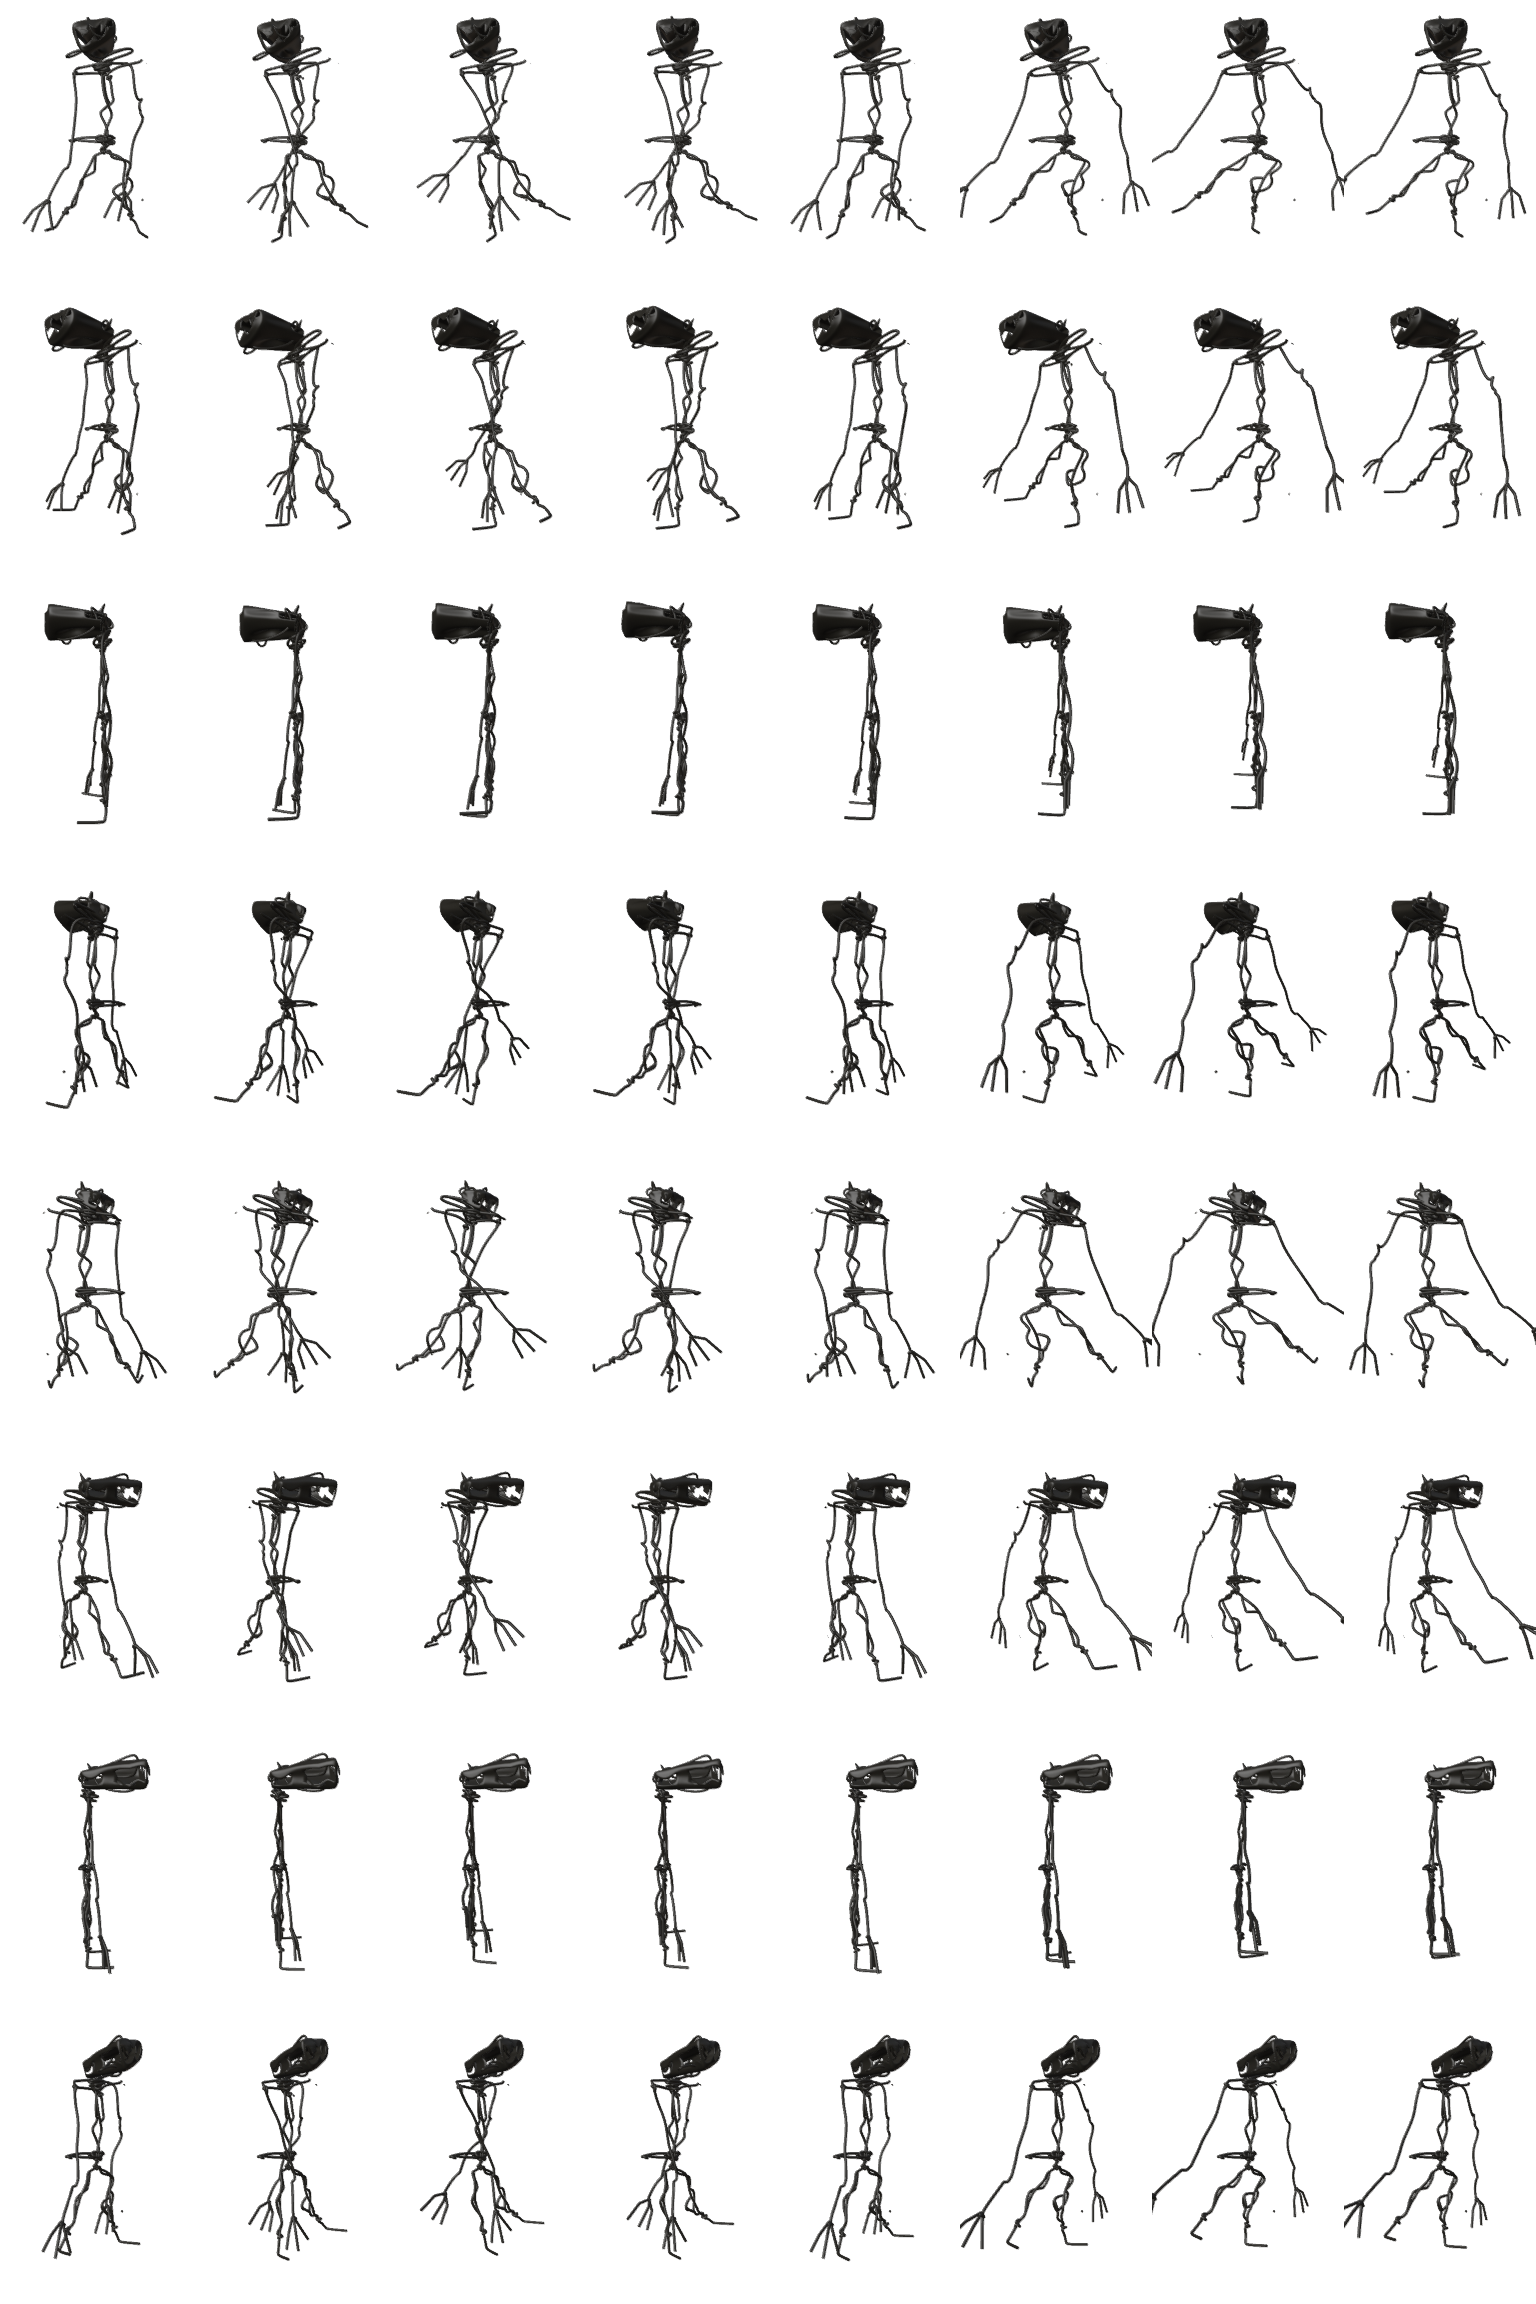
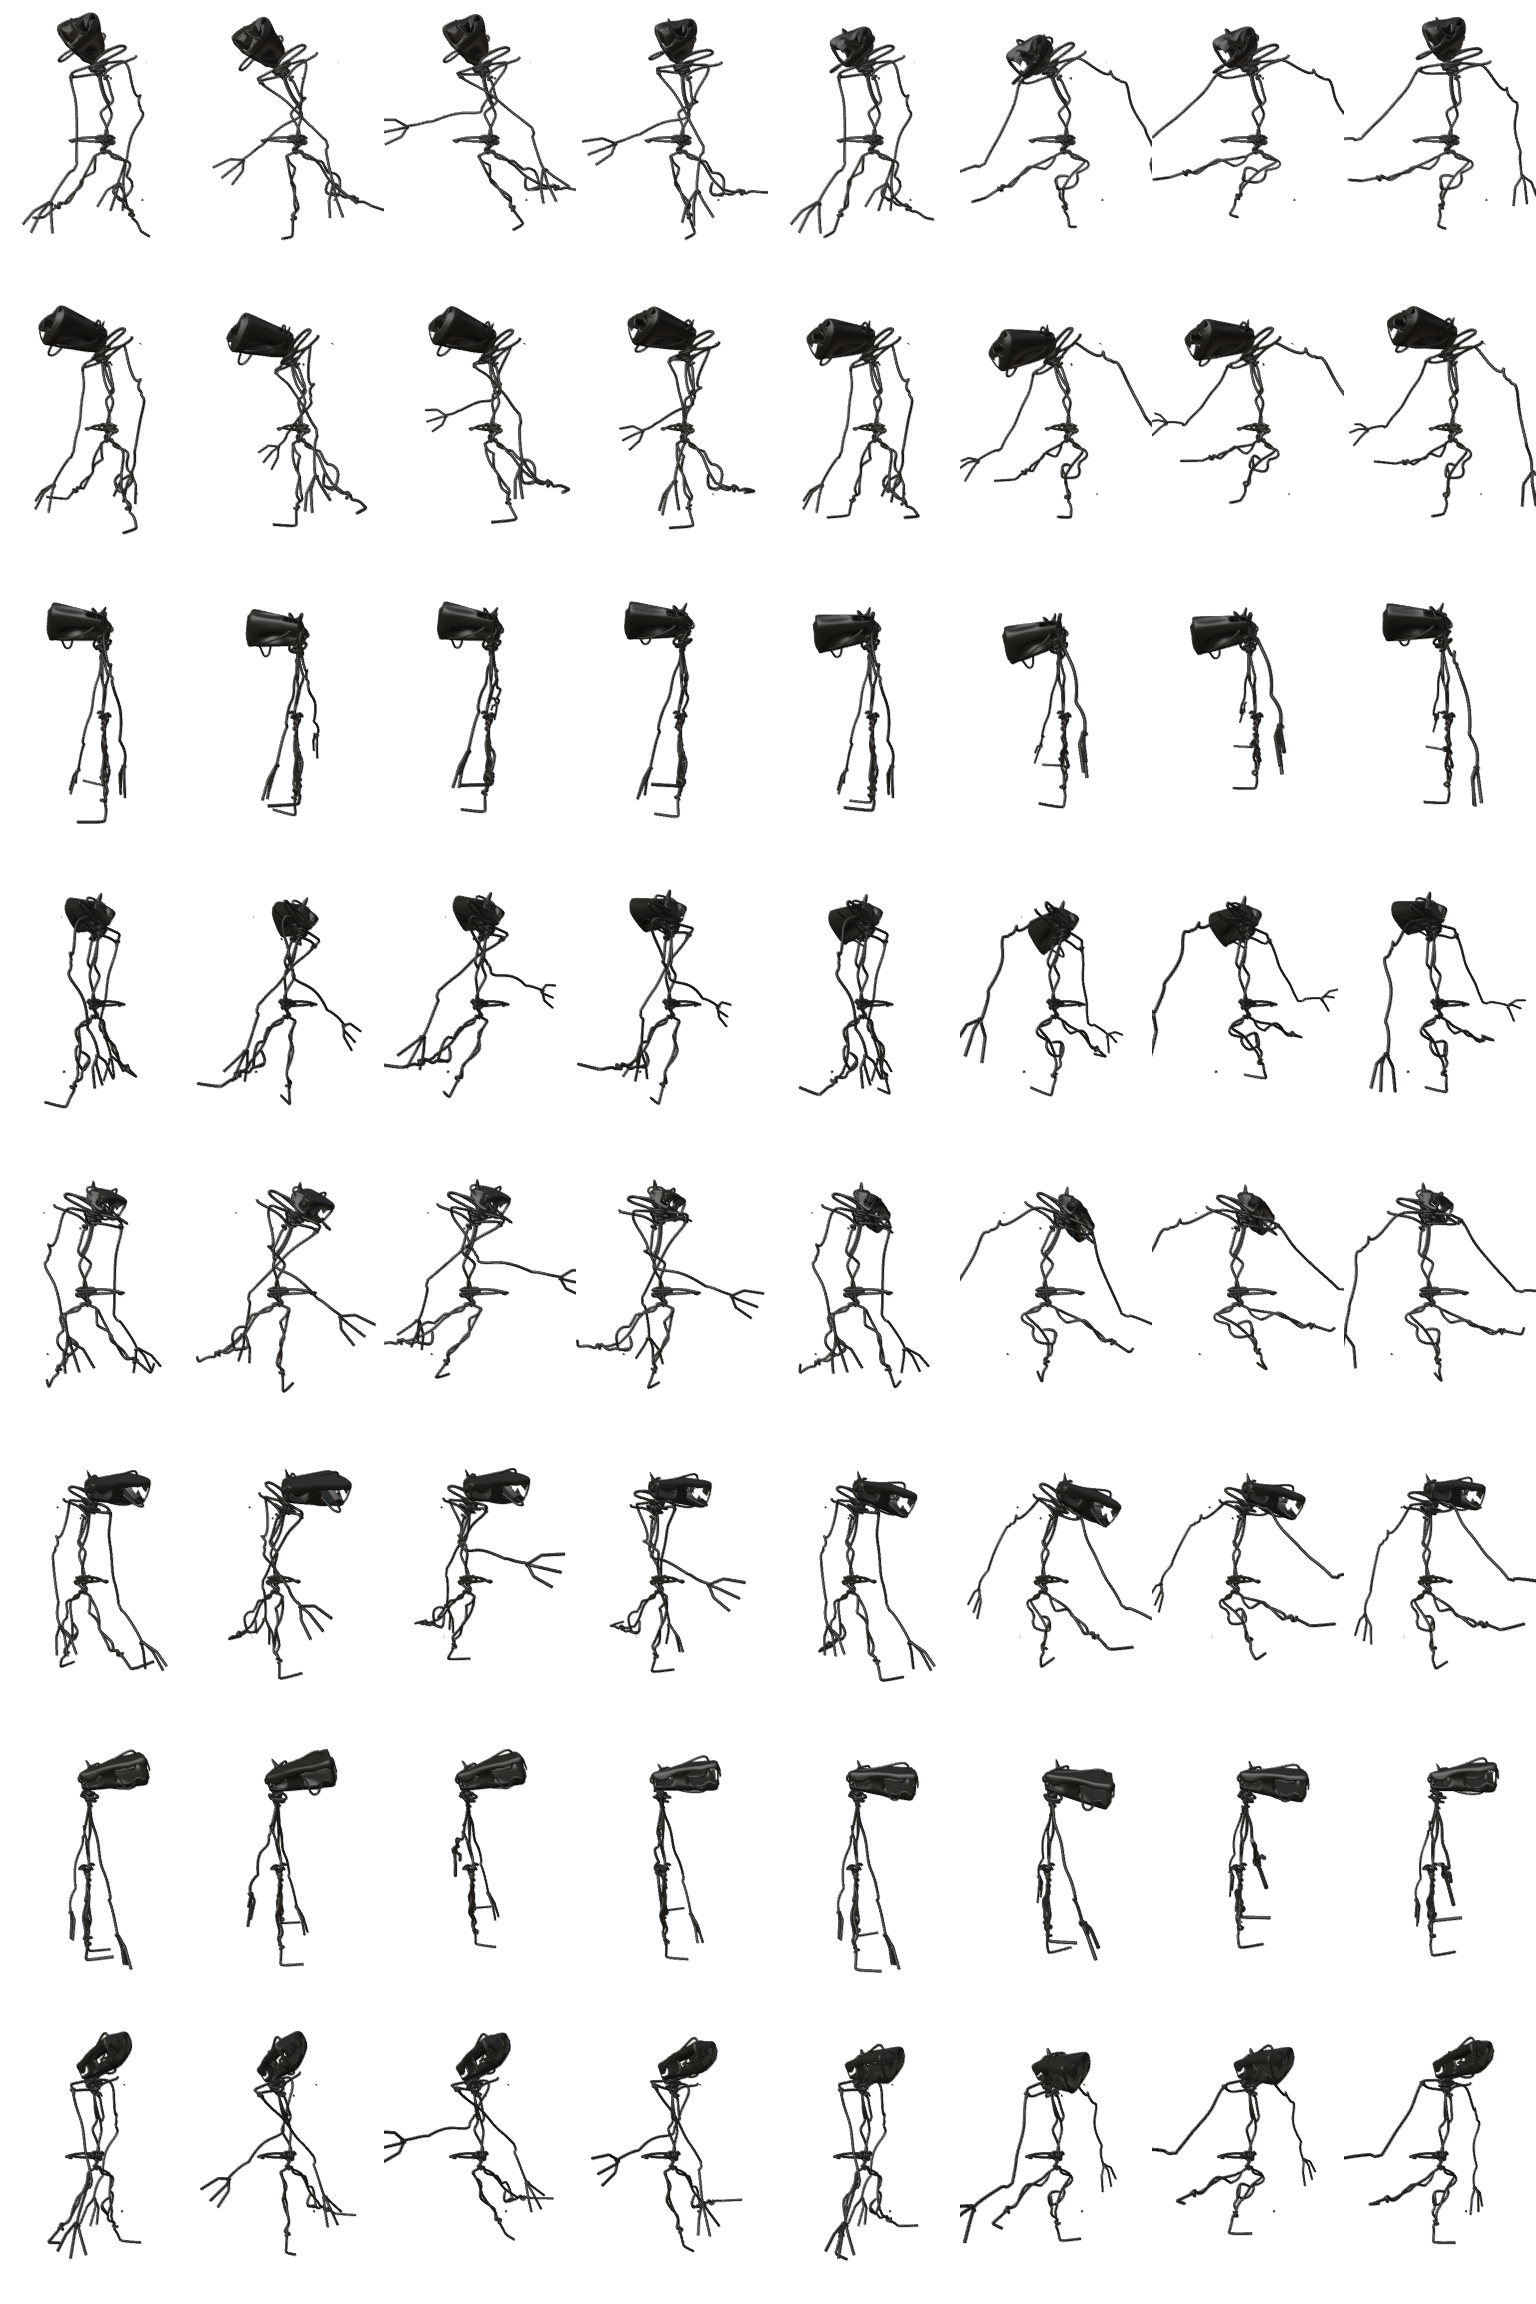
Freak out on sight, aimed look-backs, the darkness wave, lurching gait
Behavior (user: 'if we see our monster, freak the fuck out'):
- Any confirmed sighting within 14 cells drives fear to >=0.7 (panic
  threshold 0.62) - seeing it is never casual. Distant glimpses floor
  at 0.5. Sightings spike fear at 3.5/s vs 2.2 for sounds.
- He can no longer walk toward it: if the route's next leg closes on
  something he's seen in the last 6s (within 16 cells), the route is
  dropped and replanned away immediately; below panic, recent
  sightings bias all route planning away from it.
- Look-backs now ACQUIRE the target: the turn holds until the camera
  is genuinely aimed (within ~7 degrees), dwells 0.35-0.5s on it, then
  whips back. Turn rate up to 2.2x. Verified: 17 frames dead-on in a
  240-frame sim.

Fun backlog item 1 - the darkness wave: when it commits to the hunt
(with the scream), lights die in sequence along its path toward the
player, 70ms per cell with a 3x3 spread - the dark rolls down the
corridor at you. Reuses the killed-lights ledger (recover ~7-12s
after it passes).

Fun backlog item 2 - the gait: re-baked all 64 sprites with an
exaggerated, wrong gait (stride 0.95 rad, arms swinging 0.85 with
overshoot, shoulders lurching, hip sway doubled, head lolling on a
1.3-offset phase). It moves like something imitating walking from a
description.

Deterministic sim test: sighting at 7 cells -> fear 0.70, panic, fled
to 12 cells, wave fired.

diff --git a/backrooms_walk.py b/backrooms_walk.py
@@ -910,6 +910,8 @@ class AutoWalker:
         self.panic = False
         self.look = 0.0          # >0: turning to look toward the thing
         self.look_cd = 0.0
+        self.look_dwell = 0.0
+        self.seen_t = 0.0        # how recently he SAW it
         self.heard_t = 0.0       # how recently he heard it
         self.scan_cd = rng.uniform(15.0, 35.0)
         self.pause_total = 0.0
@@ -1005,22 +1007,36 @@ class AutoWalker:
                 self.pause_total = 0.0
             return
 
+        # Track how recently he has actually SEEN it.
+        if p.presence_seen:
+            self.seen_t = 6.0
+        else:
+            self.seen_t = max(0.0, getattr(self, "seen_t", 0.0) - dt)
+
         # Looking is how he knows. Hearing something behind him makes him
         # stop and turn to check; mid-flight he throws glances over his
-        # shoulder every few seconds without breaking stride.
+        # shoulder every few seconds without breaking stride. A look-back
+        # holds until the camera is genuinely AIMED at it, then dwells a
+        # beat before whipping back.
         self.look_cd -= dt
         if self.look <= 0 and p.presence_bearing is not None and self.look_cd <= 0:
             if self.panic:
-                self.look = 0.45
+                self.look = 1.4                  # total budget
+                self.look_dwell = 0.35
                 self.look_cd = self.rng.uniform(3.5, 7.0)
             elif p.presence_heard and not p.presence_seen:
-                self.look = 0.9
+                self.look = 1.8
+                self.look_dwell = 0.5
                 self.look_cd = self.rng.uniform(6.0, 12.0)
         if self.look > 0 and p.presence_bearing is not None:
             self.look -= dt
             diff = (p.presence_bearing - p.angle + math.pi) % math.tau - math.pi
-            turn = TURN_SPEED * 1.8 * dt
+            turn = TURN_SPEED * 2.2 * dt
             p.angle += max(-turn, min(turn, diff))
+            if abs(diff) < 0.12:                 # on target: hold the shot
+                self.look_dwell -= dt
+                if self.look_dwell <= 0:
+                    self.look = 0.0
             if self.panic and self.path and self.idx < len(self.path):
                 # keep running the route while the head is turned
                 cx, cy = self.path[self.idx]
@@ -1031,10 +1047,15 @@ class AutoWalker:
                 p.want_vy = dy / d * speed
             else:
                 p.want_vx = p.want_vy = 0.0      # stop. listen. look.
-            return
+            if self.look > 0:
+                return
 
         flee = None
         if self.panic and presence is not None:
+            flee = (presence.x, presence.y)
+        elif (presence is not None and self.seen_t > 0
+                and p.presence_dist is not None and p.presence_dist < 16.0):
+            # He saw it recently: even below panic, routes bias AWAY.
             flee = (presence.x, presence.y)
 
         self.repath_timer -= dt
@@ -1060,6 +1081,22 @@ class AutoWalker:
                 self.idx += 1
             else:
                 break
+
+        # NEVER keep walking toward something he has seen. If the route's
+        # next leg closes on it, drop the route and plan away right now.
+        if (self.seen_t > 0 and p.presence_bearing is not None
+                and p.presence_dist is not None and p.presence_dist < 16.0
+                and self.idx < len(self.path)):
+            cx, cy = self.path[self.idx]
+            dx, dy = world.wrap_delta(p.x, p.y, cx + 0.5, cy + 0.5)
+            d = math.hypot(dx, dy) or 1.0
+            toward = (math.cos(p.presence_bearing) * dx / d
+                      + math.sin(p.presence_bearing) * dy / d)
+            if toward > 0.45:
+                self.plan(world, p, (presence.x, presence.y))
+                if not self.path:
+                    p.want_vx = p.want_vy = 0.0
+                    return
 
         # See the crawlspace coming: start folding down before the door.
         def low_ahead(i):
@@ -1196,6 +1233,8 @@ class Presence:
         self.heading = 0.0
         self.dimmed = {}         # cells it's disturbing: (x,y) -> (light, panel)
         self.killed = {}         # lights it broke: (x,y) -> (light, panel, t)
+        self.wave = []           # hunt: lights dying in sequence toward him
+        self.wave_t = 0.0
         # Tension: it stalks first. Early on it keeps its distance and just
         # lets itself be heard; only once tension has built does it close.
         # Sightings feed it. Crowding it feeds it faster.
@@ -1327,7 +1366,10 @@ class Presence:
         heard = dist < 13.0
         threat = max(0.0, 1.0 - dist / 16.0)
         if seen:
-            target = threat
+            # SEEING it is never casual. Any confirmed sighting inside 14
+            # cells breaks him outright; even a distant glimpse leaves him
+            # badly rattled. Nobody calmly keeps walking toward that.
+            target = max(threat, 0.7 if dist < 14.0 else 0.5)
         elif heard:
             # Sound alone unnerves but rarely breaks him — he has to SEE
             # it (or have it nearly on top of him) to run.
@@ -1338,7 +1380,8 @@ class Presence:
         if world.light[yi][xi] < 0.4:
             target = max(target, 0.15)     # the dark is never comfortable
         if target > p.fear:
-            p.fear += (target - p.fear) * min(1.0, 2.2 * dt)
+            # sightings hit like a spike, sounds creep up
+            p.fear += (target - p.fear) * min(1.0, (3.5 if seen else 2.2) * dt)
         else:
             p.fear += (target - p.fear) * min(1.0, 0.12 * dt)
         p.presence_bearing = bearing
@@ -1371,6 +1414,11 @@ class Presence:
                     p.fear = max(p.fear, 0.8)
                     if audio:
                         audio.play_scream(bearing, dist, p)
+                    # and the lights die in a wave, rolling from it toward
+                    # him down its own path — the dark coming for you
+                    self.wave = [(cell, 0.07 * i) for i, cell in
+                                 enumerate(self.path[self.idx:self.idx + 16])]
+                    self.wave_t = 0.0
         elif self.state == "hunt":
             # Hunting but he broke away: without line of sight long
             # enough, it loses the thread and goes back to stalking.
@@ -1434,6 +1482,27 @@ class Presence:
                 self.stride = max(0.34, 0.68 - speed * 0.09) * self.rng.uniform(0.95, 1.05)
                 if audio:
                     audio.presence_step(bearing, dist, p)
+
+        # the hunt's darkness wave: lights die in sequence along its path
+        if self.wave:
+            self.wave_t += dt
+            remaining = []
+            for (wx, wy), delay in self.wave:
+                if delay <= self.wave_t:
+                    for oy in (-1, 0, 1):
+                        for ox in (-1, 0, 1):
+                            xi, yi = (wx + ox) % world.cols, (wy + oy) % world.rows
+                            key = (xi, yi)
+                            if (key not in self.killed
+                                    and world.light[yi][xi] > 0.3):
+                                self.killed[key] = (
+                                    world.light[yi][xi], world.panel[yi][xi],
+                                    self.rng.uniform(7.0, 12.0))
+                                world.light[yi][xi] = 0.12
+                                world.panel[yi][xi] = False
+                else:
+                    remaining.append(((wx, wy), delay))
+            self.wave = remaining
 
         self._light_disturbance(world, dt)
         if audio: